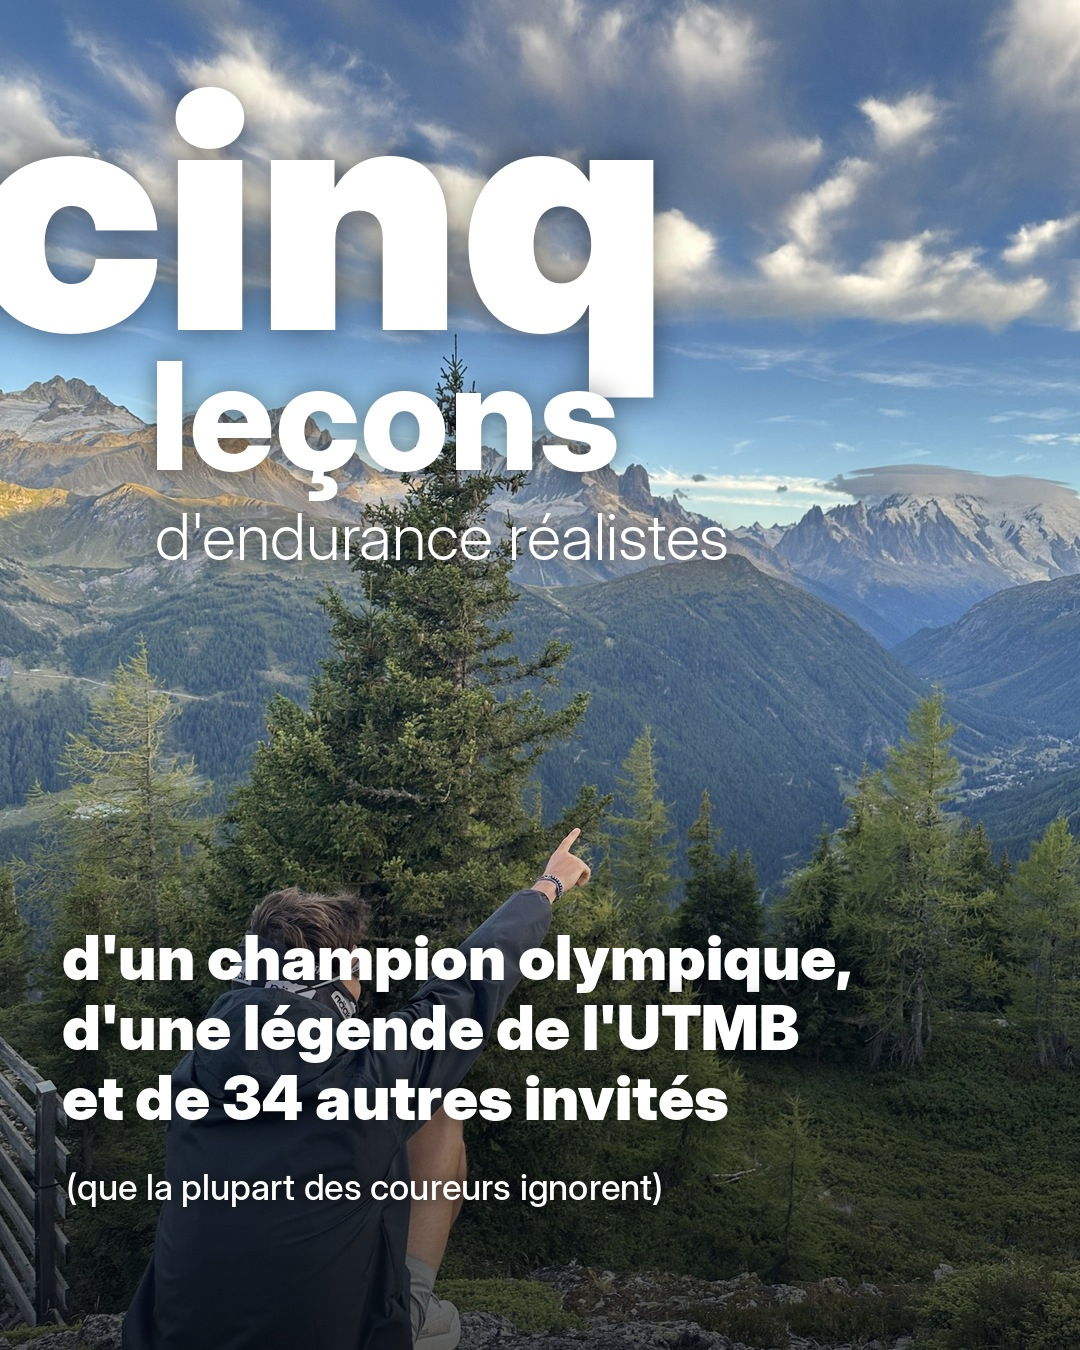
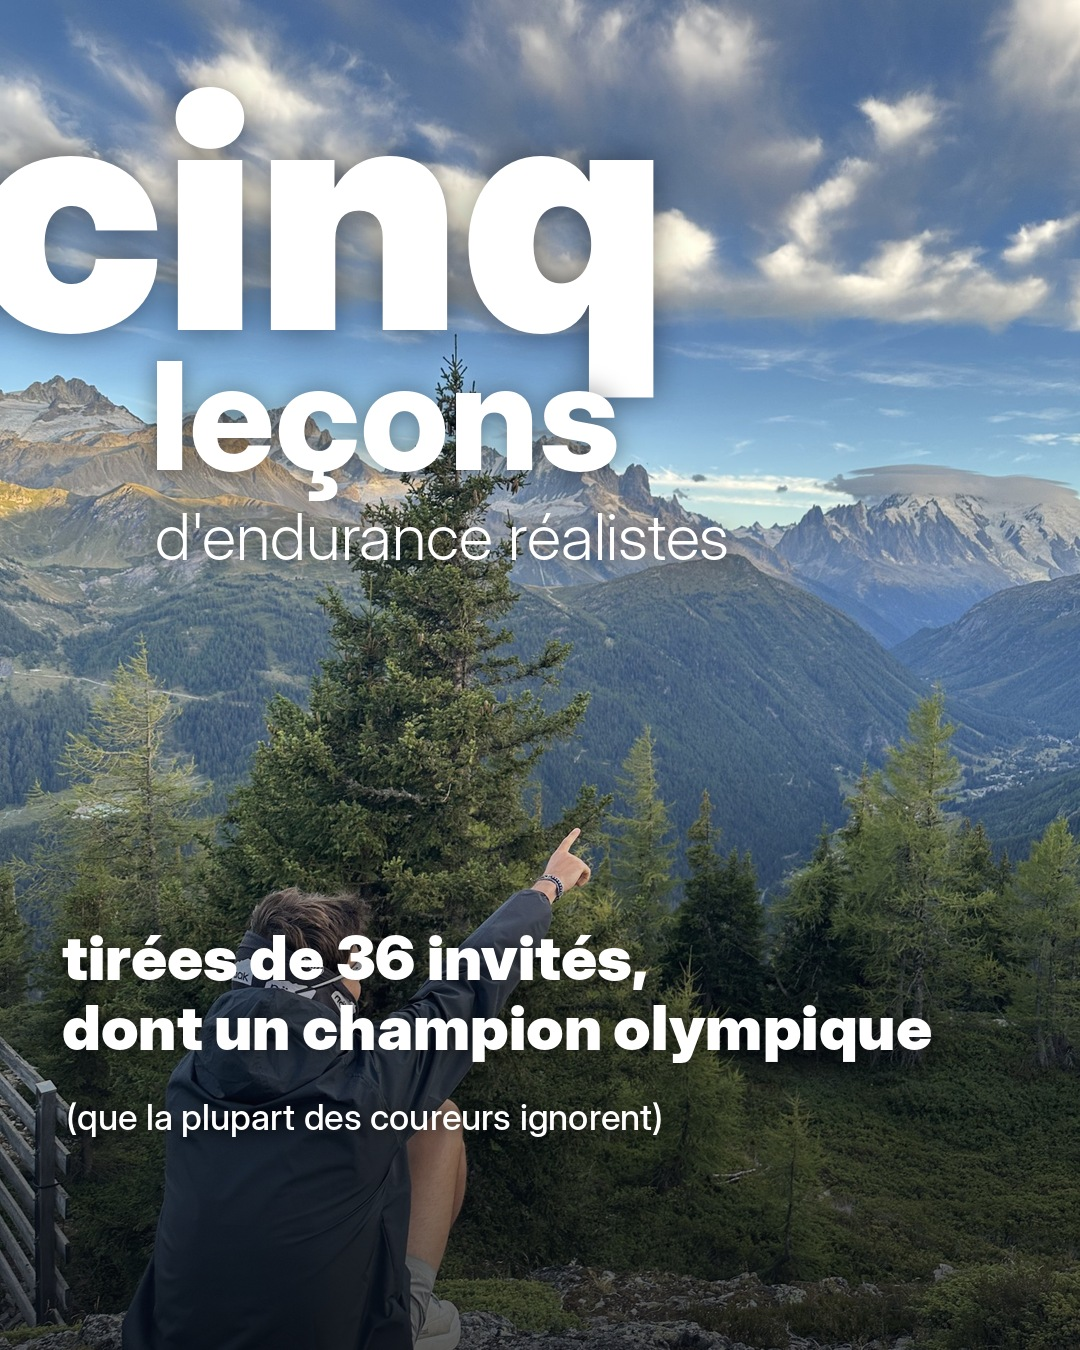
Carrousel Silex : dernière slide plus lisible, hook raccourci
Claude-Session: https://claude.ai/code/session_01Bwd8fxM92NWrr3aL1Qd296

Changed region(s): [[0.0611, 0.6844, 0.8556, 0.84], [0.0611, 0.8711, 0.6111, 0.9022]]

diff --git a/carrousel-silex/make.py b/carrousel-silex/make.py
@@ -128,15 +128,21 @@ def lesson(s):
 
 def cta(c):
     im = photo(c['photo'])
-    y = int(H * 0.12)
-    text(im, (W // 2, y), c['title'], font('Inter Display:black', 70), anchor='ma', blur=14, op=170, spacing=10)
-    rich(im, y + 190, c['text'], font('Inter:bold', 42), lh=56)
+    top_shade(im, end=0.62, alpha=215)
+    y = int(H * 0.09)
+    text(im, (W // 2, y), c['title'], font('Inter Display:black', 92), anchor='ma', blur=14, op=190)
+    text(im, (W // 2, y + 112), c['sub'], font('Inter Display:bold', 52), anchor='ma', blur=12, op=190)
+    yy = y + 250
+    for line, hl in c['lines']:
+        text(im, (W // 2, yy), line, font('Inter:bold', 46), anchor='ma', blur=10, op=200,
+             fill=ACCENT if hl else 'white')
+        yy += 62
     return im
 
 
 COVER = {
     'photo': 'pointe-mont-blanc',
-    'bottom': ["d'un champion olympique,", "d'une légende de l'UTMB", 'et de 34 autres invités'],
+    'bottom': ['tirées de 36 invités,', 'dont un champion olympique'],
     'small': '(que la plupart des coureurs ignorent)',
 }
 
@@ -167,8 +173,9 @@ SLIDES = [
 
 CTA = {
     'photo': 'tente',
-    'title': 'Enregistre ce post\npour ta prochaine prépa',
-    'text': "Commence par l'épisode avec **Kristian Blummenfelt** · lien en bio. Et envoie-le à **ton binôme de sortie longue**.",
+    'title': 'Enregistre ce post',
+    'sub': 'pour ta prochaine prépa',
+    'lines': [("Commence par l'épisode avec", False), ('Kristian Blummenfelt', True), ('lien en bio', False)],
 }
 
 if __name__ == '__main__':

diff --git a/carrousel-silex/legende.md b/carrousel-silex/legende.md
@@ -2,7 +2,7 @@
 
 ## Légende
 
-Un champion olympique m'a dit un truc que je n'oublierai jamais 👇
+Ce qu'un champion olympique m'a appris 👇
 
 36 épisodes de Silex Podcast. Un champion olympique, le vainqueur du tout premier UTMB, un chercheur qui étudie la fatigue, une sage-femme devenue championne d'Europe…
 
